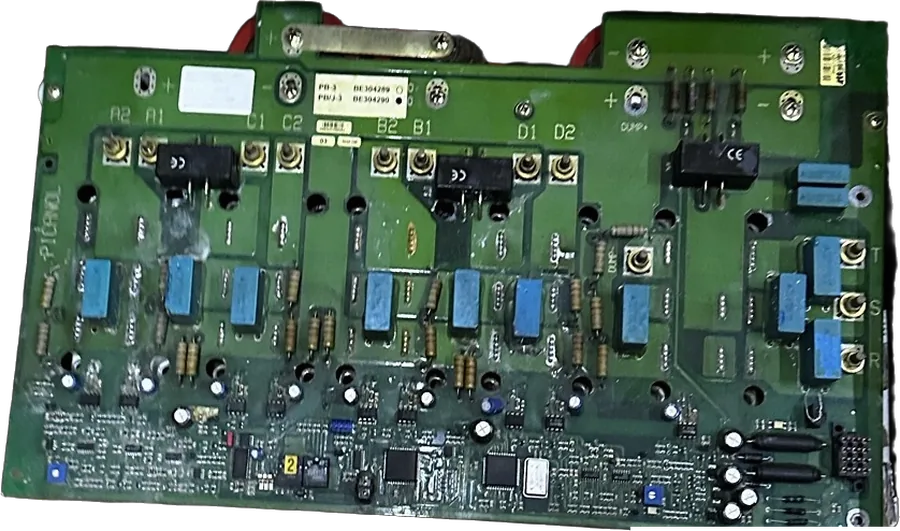
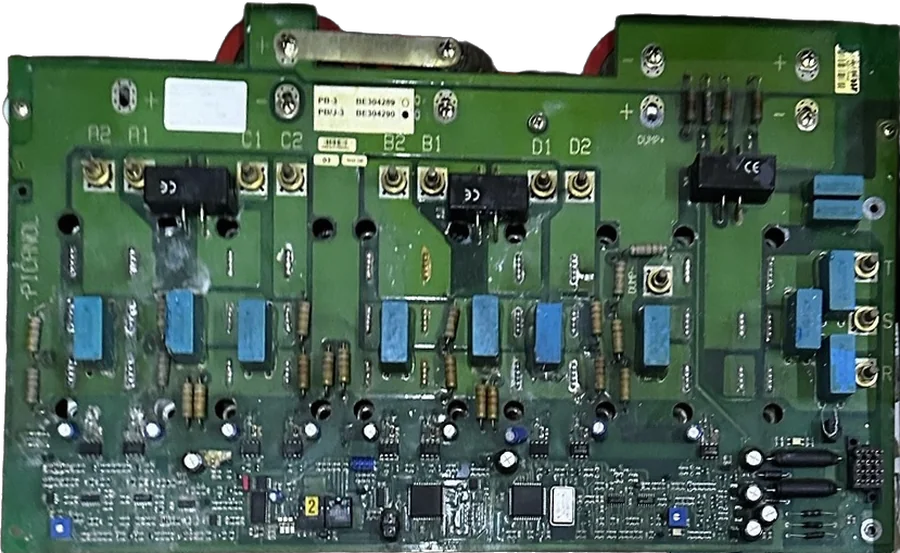
Kartların perspektifini düzelt, sürücünün içini görünür yap
- Güç/sürücü kartı ve sürücü ünitesi perspektif düzeltmesiyle dik,
  tam karşıdan görünüyor.
- Sürücü ünitesi ızgarasının delikleri orijinal fotoğraftan dolduruldu
  ve aydınlatıldı; içerideki kartlar görünüyor.

Claude-Session: https://claude.ai/code/session_01WKXf7C5PrXrh8BrdM1Bq77

diff --git a/index.html b/index.html
@@ -1002,7 +1002,7 @@ body{letter-spacing:-.011em}
       </div>
       <div class="ag">
         <figure class="pc ag-wide rv">
-          <div class="ag-img"><picture><source srcset="assets/foto/ldec-kesik.webp" type="image/webp"><img src="assets/foto/ldec-kesik.png" width="1100" height="677" alt="Onarımı tamamlanmış, servis etiketli sürücü ünitesi" loading="lazy"></picture></div>
+          <div class="ag-img"><picture><source srcset="assets/foto/ldec-kesik.webp" type="image/webp"><img src="assets/foto/ldec-kesik.png" width="1100" height="675" alt="Onarımı tamamlanmış, servis etiketli sürücü ünitesi" loading="lazy"></picture></div>
           <figcaption><span class="n">01</span><b>Sürücü ünitesi</b><span>Motor testi yapılan ünite, servis etiketiyle teslime hazırlanır.</span></figcaption>
         </figure>
         <figure class="ph rv">
@@ -1010,7 +1010,7 @@ body{letter-spacing:-.011em}
           <figcaption><span class="n">02</span><b>Servis etiketi</b><span>Her kart, tarih ve firma bilgisiyle etiketlenerek kayda alınır.</span></figcaption>
         </figure>
         <figure class="pc ag-full rv">
-          <div class="ag-img"><picture><source srcset="assets/foto/guc-karti-kesik.webp" type="image/webp"><img src="assets/foto/guc-karti-kesik.png" width="900" height="531" alt="Onarım için kabul edilen güç ve sürücü kartı" loading="lazy"></picture></div>
+          <div class="ag-img"><picture><source srcset="assets/foto/guc-karti-kesik.webp" type="image/webp"><img src="assets/foto/guc-karti-kesik.png" width="900" height="553" alt="Onarım için kabul edilen güç ve sürücü kartı" loading="lazy"></picture></div>
           <figcaption><span class="n">03</span><b>Güç ve sürücü kartı</b><span>Kartlar komponent seviyesinde incelenir, onarılır ve test edilir.</span></figcaption>
         </figure>
       </div>
